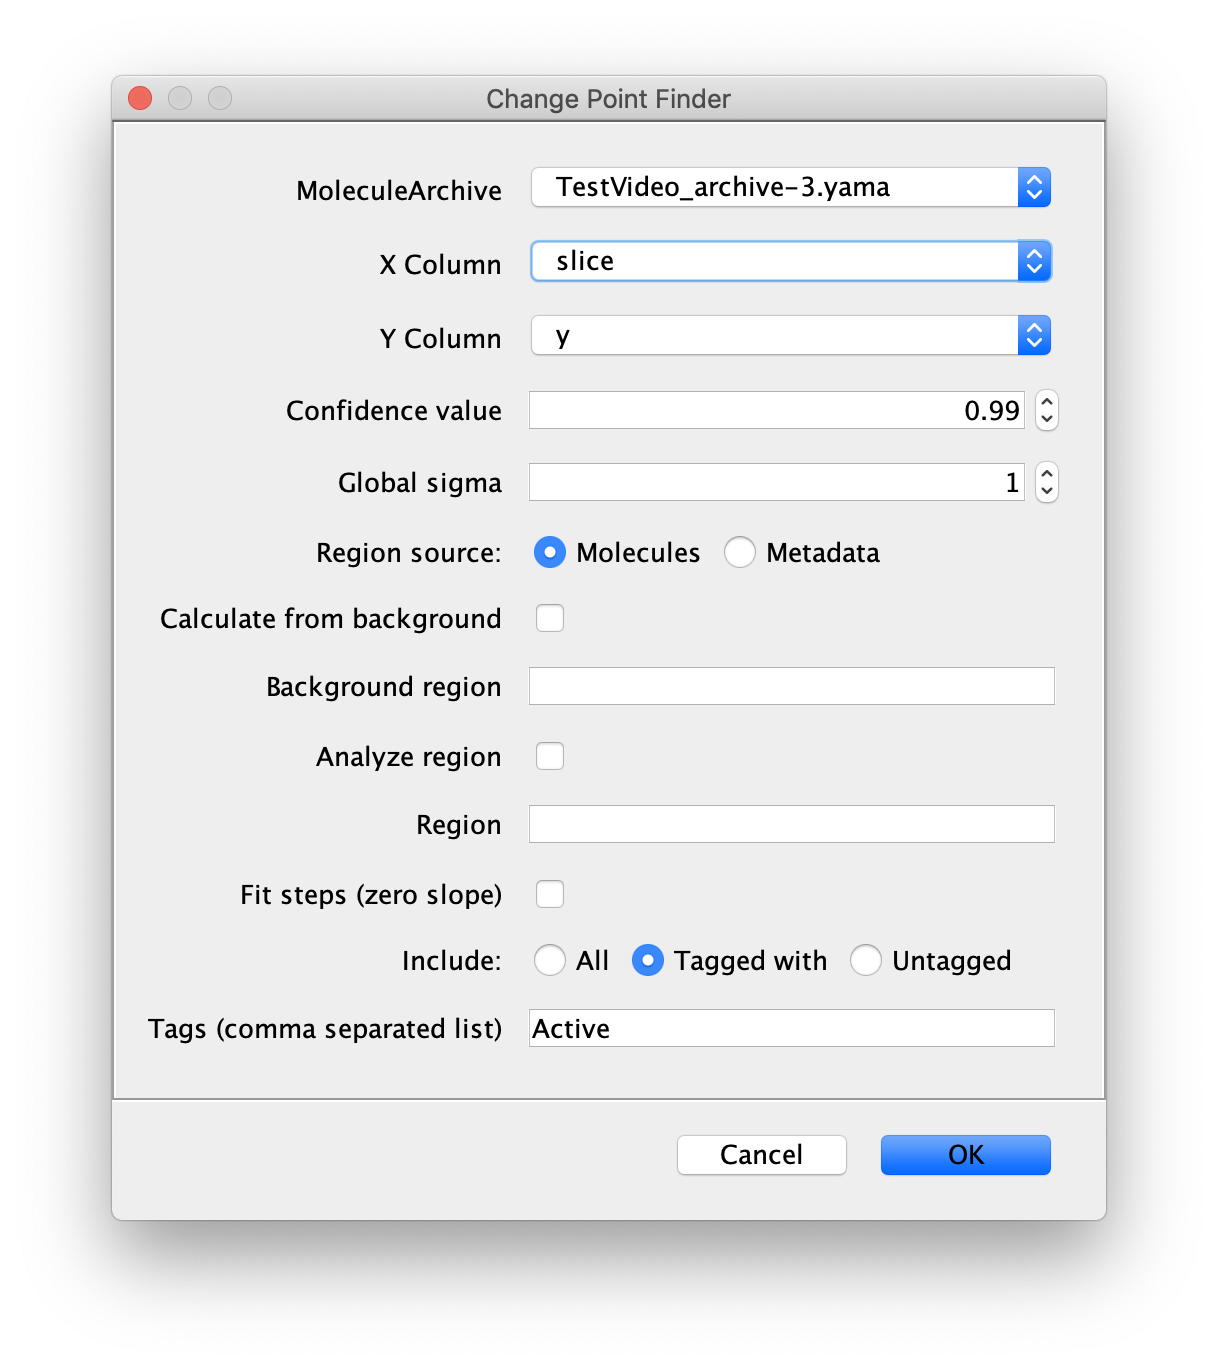
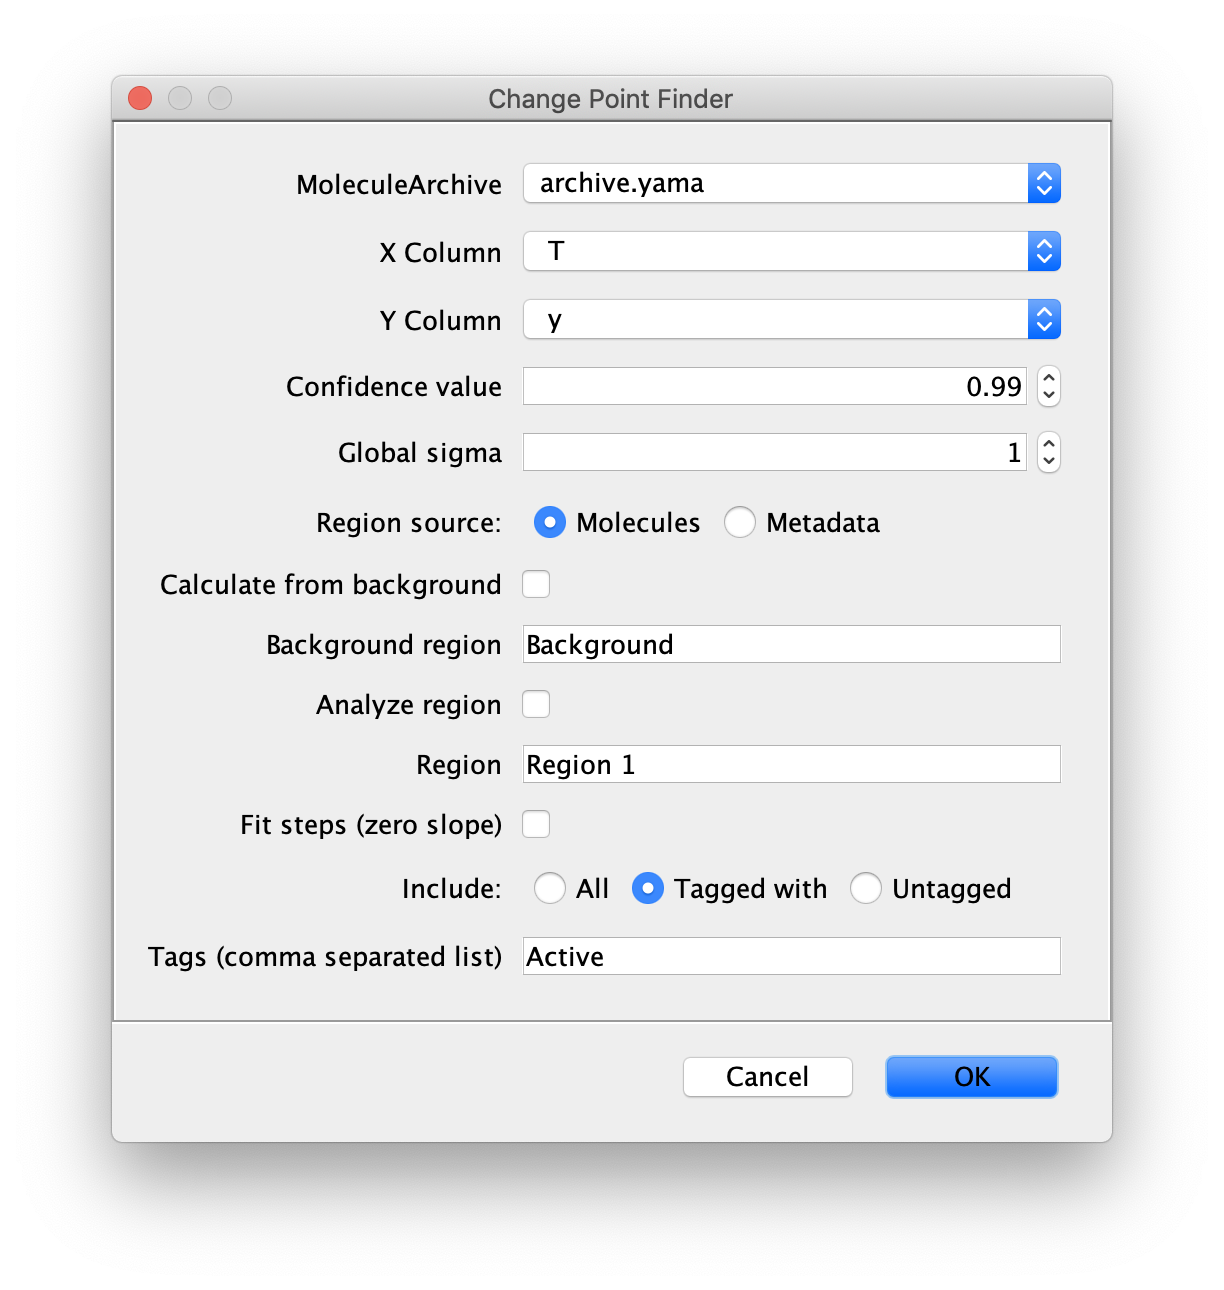
OME update docs

diff --git a/docs/kcp/ChangePointFinder.md b/docs/kcp/ChangePointFinder.md
@@ -13,7 +13,7 @@ _Figure 1: Theoretical trace with identified change points (blue dots) and fitte
 The kinetic change point (KCP) algorithm<sup>1</sup> used in the KCP analysis tools in **Mars** was specifically designed to detect these different linear regions in single-molecule traces effectively. In short, the algorithm detects the change points in the trace (fig. 1, blue dots) and fits a linear regression line between the points to yield the rates for every segment (fig. 1, blue regression lines). The algorithm was especially developed for motion of processive single molecules having Gaussian noise and assumes piece-wise linear motion. For a detailed mathematical explanation of the model and the decision strategy the reader is referred to the paper by Hill _et al._<sup>1</sup>.
 
 #### Implementation of the Algorithm
-The recursive binary search strategy for multiple change points identification algorithm (fig. 2) can be visualized in three distinct steps:
+The recursive binary search strategy for multiple change points identification algorithm (_figure 2_) can be visualized in three distinct steps:
 1. Initial sweep: Initially, the boundaries of the recorded trace are used to limit the change point search region. As soon as the first change point is identified, it is recorded and the search region is reduced accordingly. This process is repeated until the end of the trajectory is reached. This yields a first list of change points in the trajectory.
 2. Refinement: The positions of the identified change points are optimized locally by re-finding the change point in a smaller region around its identified location.
 3. Fitting: Fit a linear regression line between all change points found. As an output the coordinates of the change points as well as the regression fits (slope and intercept) are obtained.
@@ -22,8 +22,10 @@ The recursive binary search strategy for multiple change points identification a
 <div style="text-align: center"><img src='{{site.baseurl}}/docs/kcp/img/img2.png' width="650"/></div>  
 _Figure 2: Visualization of the algorithm to find multiple change points._
 
+As an introduction the reader is referred to the [Kinetic Changepoint Analysis tutorial](https://duderstadt-lab.github.io/mars-docs/tutorials/workingwithmars/kcpa/).
+
 #### Inputs
-* _MoleculeArchive_ - MoleculeArchive to find the kinetic change points for.
+* _MoleculeArchive_ - Molecule Archive to find the kinetic change points for.
 * _X Column_ - X column input (f.e. time).
 * _Y Column_ - Y column input (axis along which displacement takes place).
 * _Confidence value_ - Confidence interval, used to distinguish noise from real change points.

diff --git a/docs/kcp/SigmaCalculator.md b/docs/kcp/SigmaCalculator.md
@@ -4,17 +4,17 @@ title: Sigma Calculator
 permalink: /docs/kcp/SigmaCalculator/index.html
 ---
 
-The 'Sigma Calculator' tool calculates the error value in a specific region of all traces in the MoleculeArchive. By either specifying a region of interest manually or selecting it in the plot of a trace the sigma value for a region of interest is calculated. This error value can be used as an input in the 'Change Point Finder' tool and will automatically override a global sigma value. This gives the user the possibility to optimise the fitting process for each trace individually if desired.
+The 'Sigma Calculator' tool calculates the error value in a specific region of all traces in the Molecule Archive. By either specifying a region of interest manually or selecting it in the plot of a trace the sigma value for a region of interest is calculated. This error value can be used as an input in the [Change Point Finder](https://duderstadt-lab.github.io/mars-docs/docs/kcp/ChangePointFinder/) command and will automatically override a global sigma value. This gives the user the possibility to optimise the fitting process for each trace individually if desired.
 
 
 #### Inputs
-* _MoleculeArchive_ - Select the MoleculeArchive to apply the Sigma Calculator to.
-* _X Column_ - X-coordinates (f.e. time or slice).
+* _MoleculeArchive_ - Select the Molecule Archive to apply the Sigma Calculator to.
+* _X Column_ - X-coordinates (f.e. time or frame).
 * _Y Column_ - Y-coordinates (axis of movement).
 * _Region_ - Select which region of the trace to use in the calculation: all slices, defined below, defined in Molecules or defined in Metadata.  
 When selecting the option 'Defined below':
-  * _from_ - Start slice number.
-  * _to_ - End slice number.
+  * _from_ - Start frame (T) number.
+  * _to_ - End frame (T) number.
 * _Region from MarsRecord_ - Enter region name to use that is defined in the MarsRecord.
 
 

diff --git a/docs/kcp/SingleChangePointFinder.md b/docs/kcp/SingleChangePointFinder.md
@@ -4,13 +4,13 @@ title: Single Change Point Finder
 permalink: /docs/kcp/SingleChangePointFinder/index.html
 ---
 
-The single change point finder tool allows for the identification of one change point in the trace in the MoleculeArchive. This can be of use if a bleaching step (a stepwise drop in the intensity vs. time plot indicating the bleaching of a fluorophore) has to be identified, or when the kinetics of the process studied only involve one transition.
+The single change point finder tool allows for the identification of one change point in the trace in the Molecule Archive. This can be of use if a bleaching step (a stepwise drop in the intensity vs. time plot indicating the bleaching of a fluorophore) has to be identified, or when the kinetics of the process studied only involve one transition.
 
 <div style="text-align: center"><img src='{{site.baseurl}}/docs/kcp/img/img3.png' width="450"/></div>  
 
 
 #### Inputs
-* _MoleculeArchive_ - MoleculeArchive to find the single change point for.
+* _MoleculeArchive_ - Molecule Archive to find the single change point for.
 * _X Column_ - X column input (f.e. time).
 * _Y Column_ - Y column input (axis along which displacement takes place).
 * _Analyze region_ - Tick this box if only a specified region of the trace should be analyzed.
